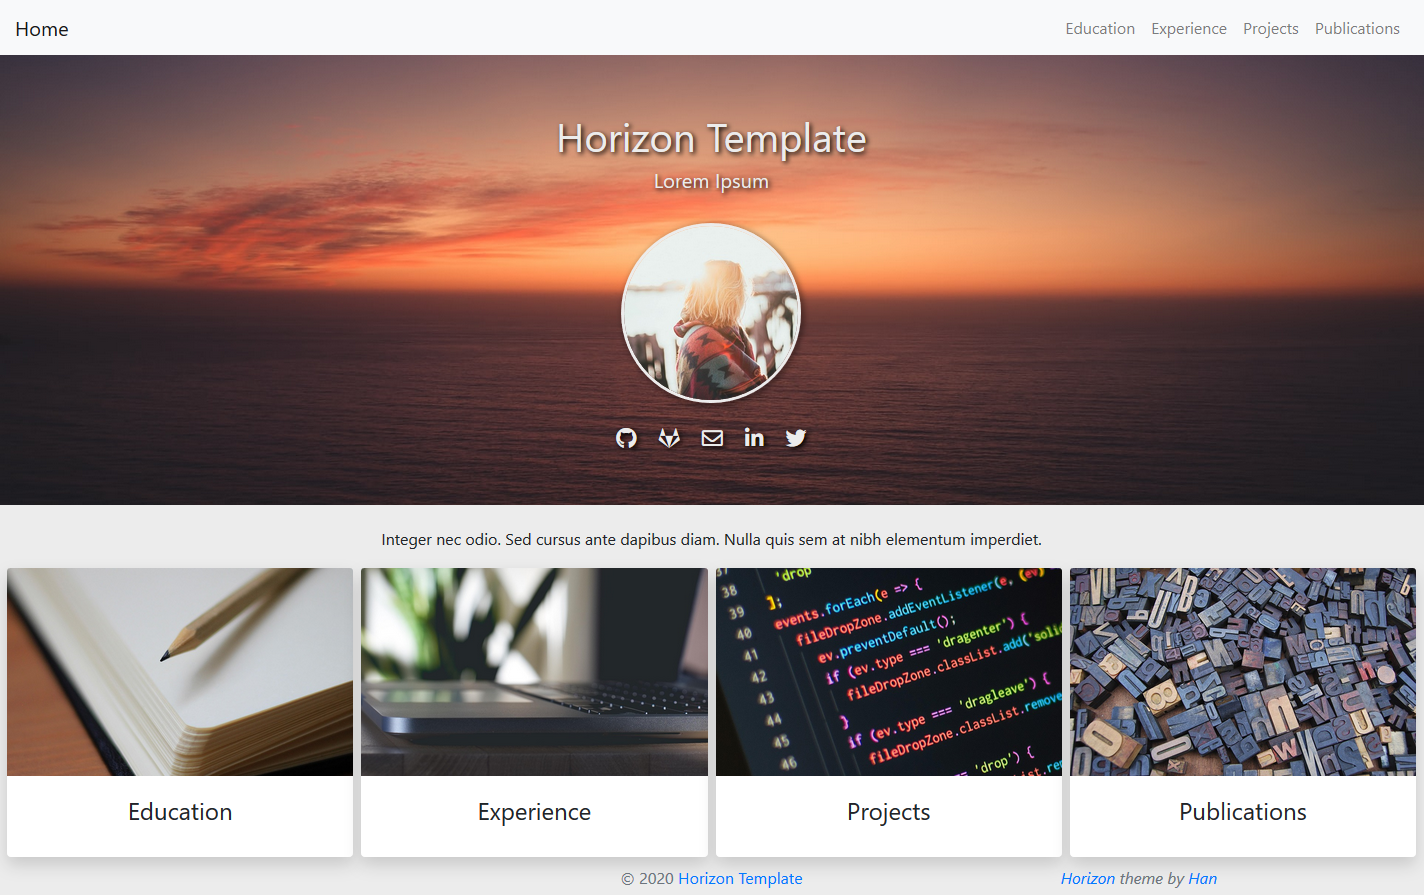
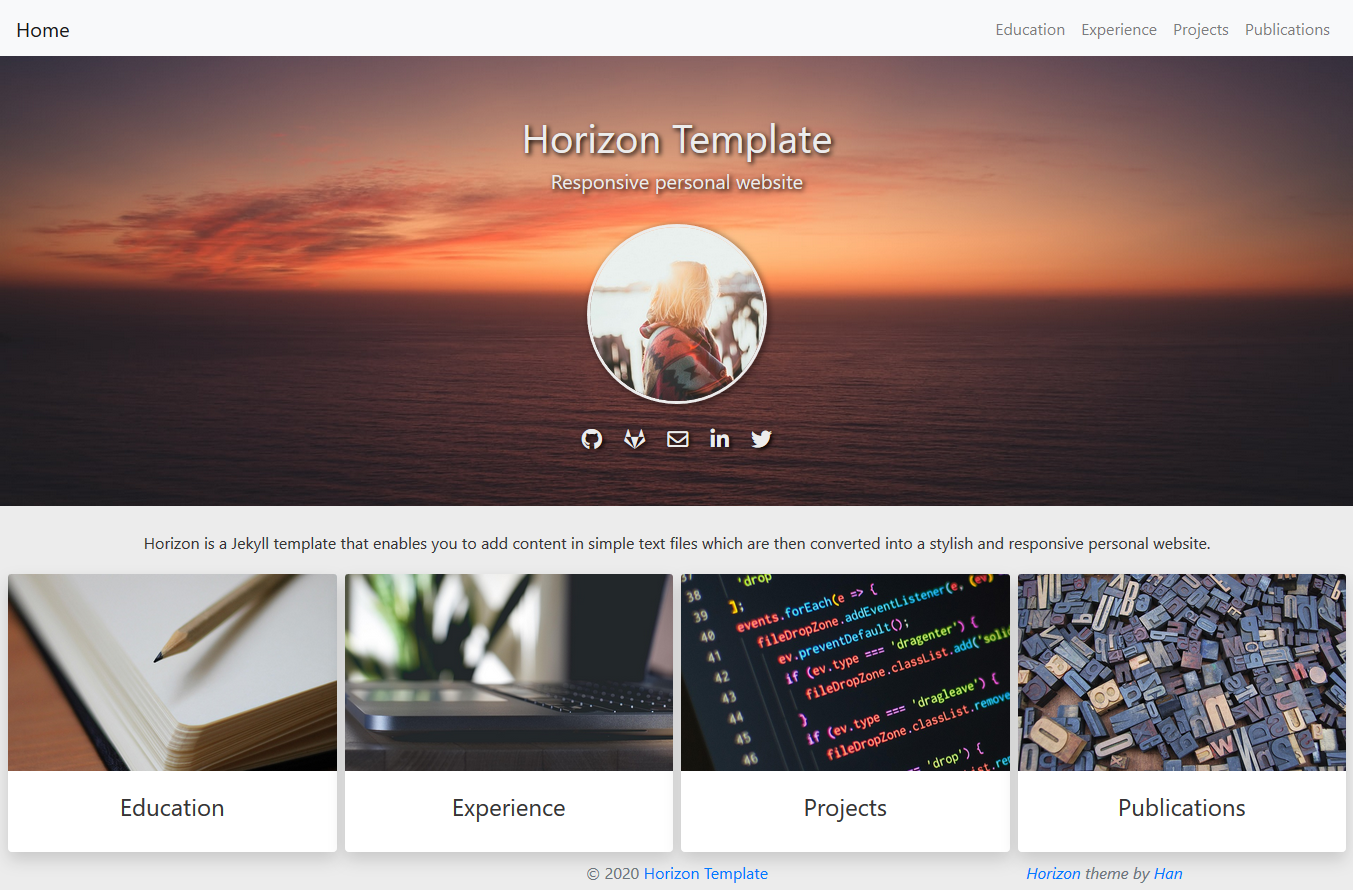
Update style

diff --git a/_layouts/default.html b/_layouts/default.html
@@ -85,7 +85,7 @@
 
       <br>
       <div class="container text-center">
-        <h6>{{ content }}</h6>
+        {{ content }}
       </div>
 
       <div class="row text-center m-1">

diff --git a/assets/css/style.css b/assets/css/style.css
@@ -67,6 +67,7 @@
 
 body {
     overflow-y:scroll;
+    color: #353535;
     background-color: #ececec;
     display: flex;
     min-height: 100vh;

diff --git a/sections/2-experience.md b/sections/2-experience.md
@@ -6,18 +6,18 @@ image: experience.jpg
 ---
 
 
-## First experience
+### First experience
 
 Lorem ipsum dolor sit amet, consectetur adipiscing elit. Integer nec odio. Praesent libero. Sed cursus ante dapibus diam. Sed nisi. Nulla quis sem at nibh elementum imperdiet. Duis sagittis ipsum. Praesent mauris. Fusce nec tellus sed augue semper porta. Mauris massa. Vestibulum lacinia arcu eget nulla. Class aptent taciti sociosqu ad litora torquent per conubia nostra, per inceptos himenaeos. Curabitur sodales ligula in libero. Sed dignissim lacinia nunc.
 
 ---
 
-## Second experience
+### Second experience
 
 Curabitur tortor. Pellentesque nibh. Aenean quam. In scelerisque sem at dolor. Maecenas mattis. Sed convallis tristique sem. Proin ut ligula vel nunc egestas porttitor. Morbi lectus risus, iaculis vel, suscipit quis, luctus non, massa. Fusce ac turpis quis ligula lacinia aliquet. Mauris ipsum. Nulla metus metus, ullamcorper vel, tincidunt sed, euismod in, nibh. Quisque volutpat condimentum velit.
 
 ---
 
-## Third experience
+### Third experience
 
 Class aptent taciti sociosqu ad litora torquent per conubia nostra, per inceptos himenaeos. Nam nec ante. Sed lacinia, urna non tincidunt mattis, tortor neque adipiscing diam, a cursus ipsum ante quis turpis. Nulla facilisi. Ut fringilla. Suspendisse potenti. Nunc feugiat mi a tellus consequat imperdiet. Vestibulum sapien. Proin quam. Etiam ultrices. Suspendisse in justo eu magna luctus suscipit.

diff --git a/sections/3-projects.md b/sections/3-projects.md
@@ -6,18 +6,18 @@ image: projects.jpg
 ---
 
 
-## First project
+### First project
 
 Lorem ipsum dolor sit amet, consectetur adipiscing elit. Integer nec odio. Praesent libero. Sed cursus ante dapibus diam. Sed nisi. Nulla quis sem at nibh elementum imperdiet. Duis sagittis ipsum. Praesent mauris. Fusce nec tellus sed augue semper porta. Mauris massa. Vestibulum lacinia arcu eget nulla. Class aptent taciti sociosqu ad litora torquent per conubia nostra, per inceptos himenaeos. Curabitur sodales ligula in libero. Sed dignissim lacinia nunc.
 
 ---
 
-## Second project
+### Second project
 
 Curabitur tortor. Pellentesque nibh. Aenean quam. In scelerisque sem at dolor. Maecenas mattis. Sed convallis tristique sem. Proin ut ligula vel nunc egestas porttitor. Morbi lectus risus, iaculis vel, suscipit quis, luctus non, massa. Fusce ac turpis quis ligula lacinia aliquet. Mauris ipsum. Nulla metus metus, ullamcorper vel, tincidunt sed, euismod in, nibh. Quisque volutpat condimentum velit.
 
 ---
 
-## Third project
+### Third project
 
 Class aptent taciti sociosqu ad litora torquent per conubia nostra, per inceptos himenaeos. Nam nec ante. Sed lacinia, urna non tincidunt mattis, tortor neque adipiscing diam, a cursus ipsum ante quis turpis. Nulla facilisi. Ut fringilla. Suspendisse potenti. Nunc feugiat mi a tellus consequat imperdiet. Vestibulum sapien. Proin quam. Etiam ultrices. Suspendisse in justo eu magna luctus suscipit.

diff --git a/sections/1-education.md b/sections/1-education.md
@@ -6,18 +6,18 @@ image: education.jpg
 ---
 
 
-## First degree
+### First degree
 
 Lorem ipsum dolor sit amet, consectetur adipiscing elit. Integer nec odio. Praesent libero. Sed cursus ante dapibus diam. Sed nisi. Nulla quis sem at nibh elementum imperdiet. Duis sagittis ipsum. Praesent mauris. Fusce nec tellus sed augue semper porta. Mauris massa. Vestibulum lacinia arcu eget nulla. Class aptent taciti sociosqu ad litora torquent per conubia nostra, per inceptos himenaeos. Curabitur sodales ligula in libero. Sed dignissim lacinia nunc.
 
 ---
 
-## Second degree
+### Second degree
 
 Curabitur tortor. Pellentesque nibh. Aenean quam. In scelerisque sem at dolor. Maecenas mattis. Sed convallis tristique sem. Proin ut ligula vel nunc egestas porttitor. Morbi lectus risus, iaculis vel, suscipit quis, luctus non, massa. Fusce ac turpis quis ligula lacinia aliquet. Mauris ipsum. Nulla metus metus, ullamcorper vel, tincidunt sed, euismod in, nibh. Quisque volutpat condimentum velit.
 
 ---
 
-## Third degree
+### Third degree
 
 Class aptent taciti sociosqu ad litora torquent per conubia nostra, per inceptos himenaeos. Nam nec ante. Sed lacinia, urna non tincidunt mattis, tortor neque adipiscing diam, a cursus ipsum ante quis turpis. Nulla facilisi. Ut fringilla. Suspendisse potenti. Nunc feugiat mi a tellus consequat imperdiet. Vestibulum sapien. Proin quam. Etiam ultrices. Suspendisse in justo eu magna luctus suscipit.
